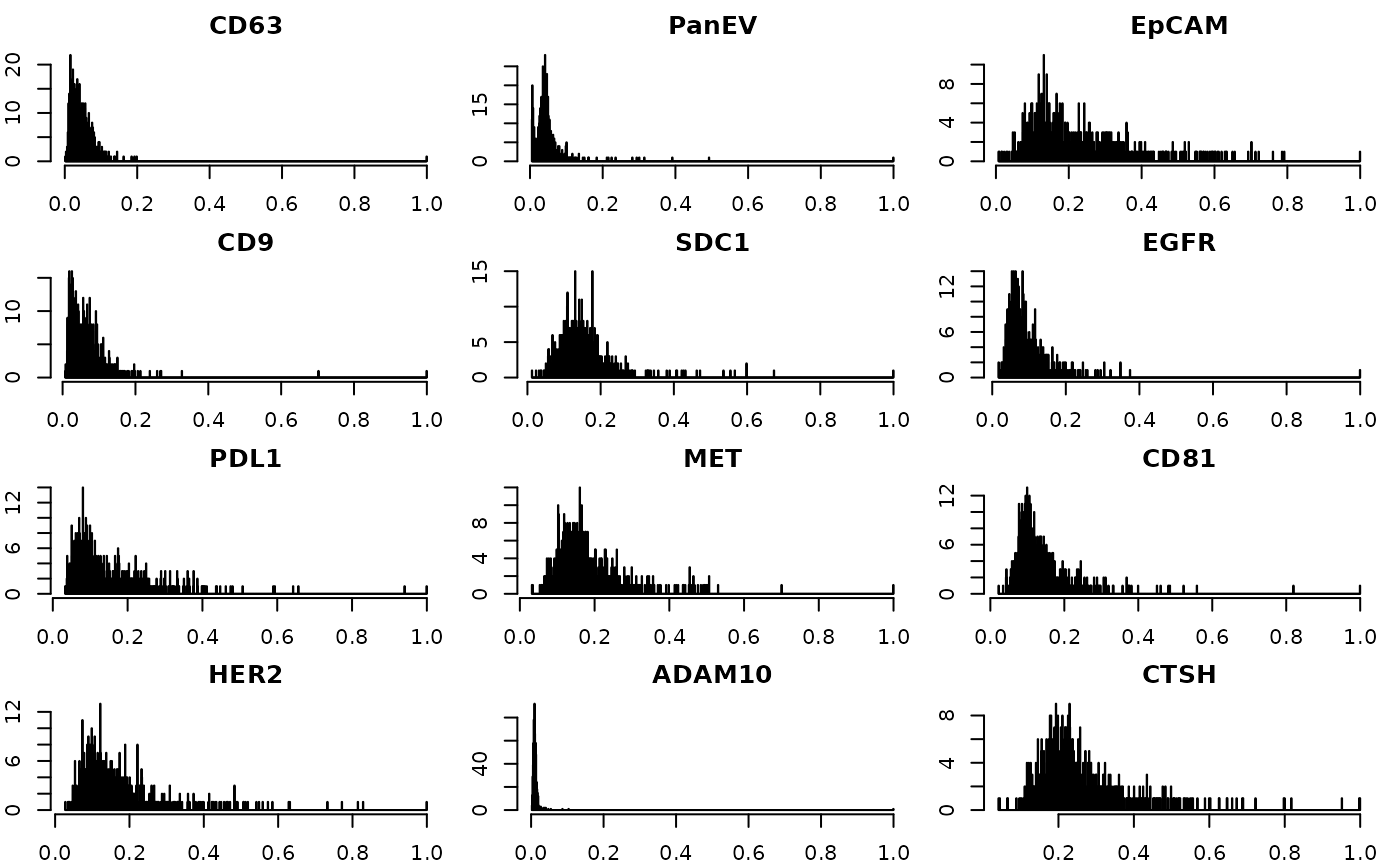
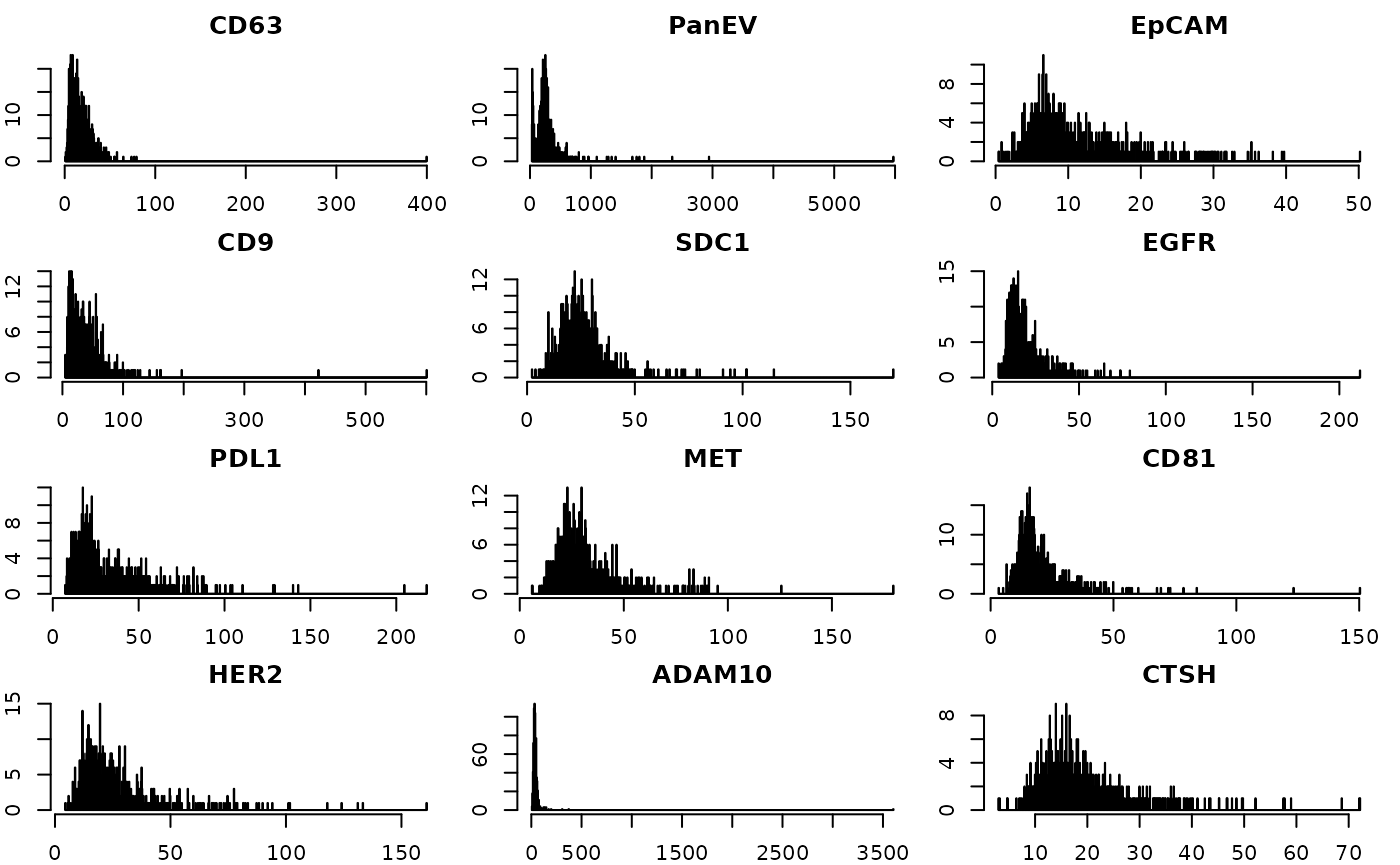
Deploying to gh-pages from @ yeinchung/Cygnus@bab0c0837804eaef02af11e8baf33d7a0cbd916e 🚀

diff --git a/reference/nnormalizeByPanEV.html b/reference/nnormalizeByPanEV.html
@@ -1,0 +1,102 @@
+<!DOCTYPE html>
+<!-- Generated by pkgdown: do not edit by hand --><html lang="en"><head><meta http-equiv="Content-Type" content="text/html; charset=UTF-8"><meta charset="utf-8"><meta http-equiv="X-UA-Compatible" content="IE=edge"><meta name="viewport" content="width=device-width, initial-scale=1, shrink-to-fit=no"><title>Normalize Expression Data by Pan-EV Marker — nnormalizeByPanEV • Cygnus</title><script src="../lightswitch.js"></script><script src="../deps/jquery-3.6.0/jquery-3.6.0.min.js"></script><meta name="viewport" content="width=device-width, initial-scale=1, shrink-to-fit=no"><link href="../deps/bootstrap-5.3.1/bootstrap.min.css" rel="stylesheet"><script src="../deps/bootstrap-5.3.1/bootstrap.bundle.min.js"></script><link href="../deps/font-awesome-6.4.2/css/all.min.css" rel="stylesheet"><link href="../deps/font-awesome-6.4.2/css/v4-shims.min.css" rel="stylesheet"><script src="../deps/headroom-0.11.0/headroom.min.js"></script><script src="../deps/headroom-0.11.0/jQuery.headroom.min.js"></script><script src="../deps/bootstrap-toc-1.0.1/bootstrap-toc.min.js"></script><script src="../deps/clipboard.js-2.0.11/clipboard.min.js"></script><script src="../deps/search-1.0.0/autocomplete.jquery.min.js"></script><script src="../deps/search-1.0.0/fuse.min.js"></script><script src="../deps/search-1.0.0/mark.min.js"></script><!-- pkgdown --><script src="../pkgdown.js"></script><meta property="og:title" content="Normalize Expression Data by Pan-EV Marker — nnormalizeByPanEV"><meta name="description" content="This method normalizes the expression matrix in the CygnusObject by dividing
+the expression values of all markers by the expression values of a specified
+pan-EV marker."><meta property="og:description" content="This method normalizes the expression matrix in the CygnusObject by dividing
+the expression values of all markers by the expression values of a specified
+pan-EV marker."></head><body>
+    <a href="#main" class="visually-hidden-focusable">Skip to contents</a>
+
+
+    <nav class="navbar navbar-expand-lg fixed-top " aria-label="Site navigation"><div class="container">
+
+    <a class="navbar-brand me-2" href="../index.html">Cygnus</a>
+
+    <small class="nav-text text-muted me-auto" data-bs-toggle="tooltip" data-bs-placement="bottom" title="">0.1.0</small>
+
+
+    <button class="navbar-toggler" type="button" data-bs-toggle="collapse" data-bs-target="#navbar" aria-controls="navbar" aria-expanded="false" aria-label="Toggle navigation">
+      <span class="navbar-toggler-icon"></span>
+    </button>
+
+    <div id="navbar" class="collapse navbar-collapse ms-3">
+      <ul class="navbar-nav me-auto"><li class="nav-item"><a class="nav-link" href="../index.html"><span class="fa fa-home"></span></a></li>
+<li class="nav-item"><a class="nav-link" href="../articles/examples.html">Guided Tutorial</a></li>
+<li class="nav-item dropdown">
+  <button class="nav-link dropdown-toggle" type="button" id="dropdown-full-manual" data-bs-toggle="dropdown" aria-expanded="false" aria-haspopup="true">Full Manual</button>
+  <ul class="dropdown-menu" aria-labelledby="dropdown-full-manual"><li><a class="dropdown-item" href="../articles/data_in_out.html">Data Input and Output</a></li>
+    <li><a class="dropdown-item" href="../articles/marker_dist.html">Marker Intensity Distribution Modifications</a></li>
+    <li><a class="dropdown-item" href="../articles/marker_co.html">Marker Colocalization and Correlation</a></li>
+    <li><a class="dropdown-item" href="../articles/dim_red.html">Dimensionality Reduction</a></li>
+    <li><a class="dropdown-item" href="../articles/clustering.html">EV Heterogeneity</a></li>
+    <li><a class="dropdown-item" href="../articles/make_report.html">On-demand Report Generation</a></li>
+  </ul></li>
+      </ul><ul class="navbar-nav"><li class="nav-item"><form class="form-inline" role="search">
+ <input class="form-control" type="search" name="search-input" id="search-input" autocomplete="off" aria-label="Search site" placeholder="Search for" data-search-index="../search.json"></form></li>
+<li class="nav-item"><a class="external-link nav-link" href="https://github.com/yeinchung/Cygnus/" aria-label="GitHub"><span class="fa fab fa-github fa-lg"></span></a></li>
+<li class="nav-item dropdown">
+  <button class="nav-link dropdown-toggle" type="button" id="dropdown-lightswitch" data-bs-toggle="dropdown" aria-expanded="false" aria-haspopup="true" aria-label="Light switch"><span class="fa fa-sun"></span></button>
+  <ul class="dropdown-menu dropdown-menu-end" aria-labelledby="dropdown-lightswitch"><li><button class="dropdown-item" data-bs-theme-value="light"><span class="fa fa-sun"></span> Light</button></li>
+    <li><button class="dropdown-item" data-bs-theme-value="dark"><span class="fa fa-moon"></span> Dark</button></li>
+    <li><button class="dropdown-item" data-bs-theme-value="auto"><span class="fa fa-adjust"></span> Auto</button></li>
+  </ul></li>
+      </ul></div>
+
+
+  </div>
+</nav><div class="container template-reference-topic">
+<div class="row">
+  <main id="main" class="col-md-9"><div class="page-header">
+
+      <h1>Normalize Expression Data by Pan-EV Marker</h1>
+      <small class="dont-index">Source: <a href="https://github.com/yeinchung/Cygnus/blob/master/R/dataExploration.R" class="external-link"><code>R/dataExploration.R</code></a></small>
+      <div class="d-none name"><code>nnormalizeByPanEV.Rd</code></div>
+    </div>
+
+    <div class="ref-description section level2">
+    <p>This method normalizes the expression matrix in the CygnusObject by dividing
+the expression values of all markers by the expression values of a specified
+pan-EV marker.</p>
+    </div>
+
+    <div class="section level2">
+    <h2 id="ref-usage">Usage<a class="anchor" aria-label="anchor" href="#ref-usage"></a></h2>
+    <div class="sourceCode"><pre class="sourceCode r"><code><span><span class="fu">nnormalizeByPanEV</span><span class="op">(</span><span class="va">data</span>, <span class="va">pan_ev_marker</span><span class="op">)</span></span></code></pre></div>
+    </div>
+
+    <div class="section level2">
+    <h2 id="arguments">Arguments<a class="anchor" aria-label="anchor" href="#arguments"></a></h2>
+
+
+<dl><dt id="arg-data">data<a class="anchor" aria-label="anchor" href="#arg-data"></a></dt>
+<dd><p>An object of class <code>CygnusObject</code>.</p></dd>
+
+
+<dt id="arg-pan-ev-marker">pan_ev_marker<a class="anchor" aria-label="anchor" href="#arg-pan-ev-marker"></a></dt>
+<dd><p>Character string specifying the name of the pan-EV marker.</p></dd>
+
+</dl></div>
+    <div class="section level2">
+    <h2 id="value">Value<a class="anchor" aria-label="anchor" href="#value"></a></h2>
+    <p>The updated CygnusObject with normalized expression matrix.</p>
+    </div>
+
+  </main><aside class="col-md-3"><nav id="toc" aria-label="Table of contents"><h2>On this page</h2>
+    </nav></aside></div>
+
+
+    <footer><div class="pkgdown-footer-left">
+  <p>Developed by Yein Chung.</p>
+</div>
+
+<div class="pkgdown-footer-right">
+  <p>Site built with <a href="https://pkgdown.r-lib.org/" class="external-link">pkgdown</a> 2.1.1.</p>
+</div>
+
+    </footer></div>
+
+
+
+
+
+  </body></html>
+

diff --git a/articles/examples.html b/articles/examples.html
@@ -107,6 +107,10 @@ interactive Shiny App.</p>
 <pre><code><span><span class="co">## Summary of CygnusObject:</span></span>
 <span><span class="co">## Slot: [1] "Raw_Score"</span></span>
 <span><span class="co">## Numer of EVs: [1] 755</span></span></code></pre>
+<p>If any metadata from another file need to be added, you can do so
+with the following code:</p>
+<div class="sourceCode" id="cb4"><pre class="downlit sourceCode r">
+<code class="sourceCode R"><span><span class="va">cyg</span><span class="op">@</span><span class="va">ev_meta</span><span class="op">[[</span><span class="st">'CellLine'</span><span class="op">]</span><span class="op">]</span> <span class="op">&lt;-</span> <span class="st">"KP1.9"</span></span></code></pre></div>
 <p>Cygnus allows iterative analysis, where the results from each step of
 analysis is stored in the same object. This is especially useful for
 data sharing.</p>
@@ -114,24 +118,34 @@ data sharing.</p>
 default matrix that stores the initial input matrix of the CygnusObject.
 The object contains 755 EVs. Please note that Cygnus is a scalable
 workflow, and can run with samples with &gt;10,000 EVs.</p>
-<div class="sourceCode" id="cb4"><pre class="downlit sourceCode r">
+<div class="sourceCode" id="cb5"><pre class="downlit sourceCode r">
 <code class="sourceCode R"><span><span class="fu"><a href="../reference/plotDistribution.html">plotDistribution</a></span><span class="op">(</span><span class="va">cyg</span><span class="op">)</span></span></code></pre></div>
-<p><img src="examples_files/figure-html/unnamed-chunk-3-1.png" width="700"></p>
+<p><img src="examples_files/figure-html/unnamed-chunk-4-1.png" width="700"></p>
 <p>From the above distribution, you can see that the range of
 intensities of markers differ. Sometimes this difference arises from
 differences in antibody affinity, rather than reflecting a meaningful
 biological signal. Therefore, we offer an optional function that creates
 another layer to scale the expressions.</p>
-<div class="sourceCode" id="cb5"><pre class="downlit sourceCode r">
+<div class="sourceCode" id="cb6"><pre class="downlit sourceCode r">
 <code class="sourceCode R"><span><span class="va">cyg</span> <span class="op">&lt;-</span> <span class="fu"><a href="../reference/scaleExpressionMatrix.html">scaleExpressionMatrix</a></span><span class="op">(</span><span class="va">cyg</span><span class="op">)</span></span>
 <span><span class="fu"><a href="../reference/plotDistribution.html">plotDistribution</a></span><span class="op">(</span><span class="va">cyg</span>, matrix <span class="op">=</span> <span class="st">"scaled_exp_matrix"</span><span class="op">)</span></span></code></pre></div>
-<p><img src="examples_files/figure-html/unnamed-chunk-4-1.png" width="700"></p>
+<p><img src="examples_files/figure-html/unnamed-chunk-5-1.png" width="700"></p>
 <p>PanEV is used to localize EVs in the original imaging data, and is
 generally not useful for biological interpretation. However, EVs with
 greater PanEV expression may be larger in size. This can lead to EVs
-with greater size aggregating together when clustered.</p>
-<div class="sourceCode" id="cb6"><pre class="downlit sourceCode r">
-<code class="sourceCode R"><span><span class="co">#cyg &lt;- normalizeByPanEV(cyg, "PanEV")</span></span></code></pre></div>
+with greater size aggregating together when clustered. This function
+also adds a new matrix to the object, which can be viewed with
+<em>names(<a href="mailto:cyg@matrices" class="email">cyg@matrices</a>)</em>.</p>
+<div class="sourceCode" id="cb7"><pre class="downlit sourceCode r">
+<code class="sourceCode R"><span><span class="co">#cyg &lt;- normalizeByPanEV(cyg, "PanEV") </span></span></code></pre></div>
+<p>Another normalization method uses the distribution of IgG (isotype
+control). This can be done with an interactive Shiny app.</p>
+<div class="sourceCode" id="cb8"><pre class="downlit sourceCode r">
+<code class="sourceCode R"><span><span class="co"># NEED TO BE UPDATED</span></span></code></pre></div>
+<p><strong>Description of average heatmap</strong></p>
+<div class="sourceCode" id="cb9"><pre class="downlit sourceCode r">
+<code class="sourceCode R"><span><span class="fu"><a href="../reference/plotAvgHeatmap.html">plotAvgHeatmap</a></span><span class="op">(</span><span class="va">cyg</span>, <span class="st">"CellLine"</span>, scale <span class="op">=</span> <span class="st">"row"</span><span class="op">)</span></span></code></pre></div>
+<p><img src="examples_files/figure-html/unnamed-chunk-8-1.png" width="700"></p>
 </div>
   </main>
 </div>

diff --git a/reference/index.html b/reference/index.html
@@ -107,7 +107,7 @@
         <dd>Mark Relevant Markers Using User Interface</dd>
       </dl><dl><dt>
 
-          <code><a href="normalizeByPanEV.html">normalizeByPanEV()</a></code>
+          <code><a href="nnormalizeByPanEV.html">nnormalizeByPanEV()</a></code>
 
         </dt>
         <dd>Normalize Expression Data by Pan-EV Marker</dd>
